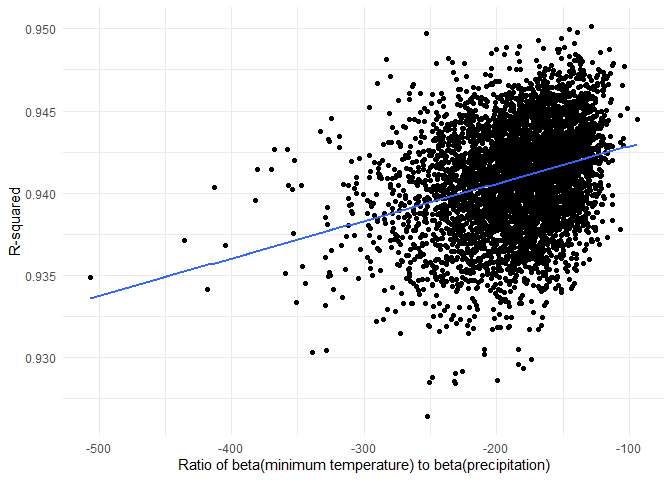
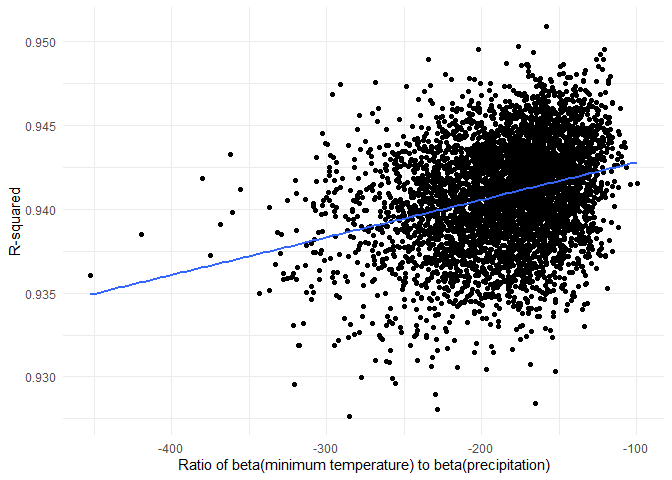
Problem 3; model 2 (length at birth & gestational age)

diff --git a/P8105_HW6_HL2710.md b/P8105_HW6_HL2710.md
@@ -55,12 +55,12 @@ head(weather_bs_betas)
     ## # A tibble: 6 × 5
     ##   strap_number `(Intercept)`  tmin     prcp beta_ratio
     ##          <int>         <dbl> <dbl>    <dbl>      <dbl>
-    ## 1            1          7.81  1.02 -0.00539      -189.
-    ## 2            2          7.84  1.01 -0.00512      -198.
-    ## 3            3          7.88  1.01 -0.00650      -155.
-    ## 4            4          7.73  1.02 -0.00495      -206.
-    ## 5            5          7.70  1.02 -0.00613      -166.
-    ## 6            6          7.77  1.01 -0.00778      -130.
+    ## 1            1          7.84  1.01 -0.00586      -172.
+    ## 2            2          7.78  1.02 -0.00504      -201.
+    ## 3            3          7.68  1.02 -0.00447      -229.
+    ## 4            4          7.81  1.02 -0.00531      -192.
+    ## 5            5          7.75  1.02 -0.00428      -238.
+    ## 6            6          7.63  1.02 -0.00589      -173.
 
 Collecting $\hat{r}^{2}$ data:
 
@@ -79,12 +79,12 @@ head(weather_bs_rsquared)
     ## # A tibble: 6 × 13
     ##   strap_number r.squared adj.r.squared sigma statistic p.value    df logLik
     ##          <int>     <dbl>         <dbl> <dbl>     <dbl>   <dbl> <dbl>  <dbl>
-    ## 1            1     0.941         0.941  2.75    17186.       0     2 -5286.
-    ## 2            2     0.940         0.940  2.76    17047.       0     2 -5286.
-    ## 3            3     0.936         0.936  2.82    15863.       0     2 -5329.
-    ## 4            4     0.939         0.939  2.77    16754.       0     2 -5275.
-    ## 5            5     0.943         0.943  2.67    17839.       0     2 -5209.
-    ## 6            6     0.947         0.947  2.59    19435.       0     2 -5154.
+    ## 1            1     0.941         0.941  2.70    17240.       0     2 -5216.
+    ## 2            2     0.938         0.938  2.79    16397.       0     2 -5311.
+    ## 3            3     0.944         0.944  2.67    18210.       0     2 -5227.
+    ## 4            4     0.940         0.940  2.76    16984.       0     2 -5287.
+    ## 5            5     0.942         0.942  2.72    17590.       0     2 -5248.
+    ## 6            6     0.945         0.945  2.61    18761.       0     2 -5166.
     ## # ℹ 5 more variables: AIC <dbl>, BIC <dbl>, deviance <dbl>, df.residual <int>,
     ## #   nobs <int>
 
@@ -99,12 +99,12 @@ head(weather_bs)
 ```
 
     ##   strap_number beta_ratio r.squared
-    ## 1            1  -188.5854 0.9405637
-    ## 2            2  -198.0913 0.9401606
-    ## 3            3  -155.3255 0.9360902
-    ## 4            4  -206.4855 0.9393626
-    ## 5            5  -166.2065 0.9427402
-    ## 6            6  -130.3887 0.9471244
+    ## 1            1  -172.2584 0.9410729
+    ## 2            2  -201.4690 0.9379110
+    ## 3            3  -228.9832 0.9436708
+    ## 4            4  -192.0109 0.9399799
+    ## 5            5  -238.3268 0.9420034
+    ## 6            6  -172.9483 0.9453065
 
 #### Plot of the ratio of betas vs r-squared
 
@@ -137,7 +137,7 @@ weather_bs_ci <- tibble(
 
 The 95% confidence interval for $\hat{r}^{2}$ is (0.93, 0.95). The 95%
 confidence interval for $\frac{\hat{\beta}_{1}}{\hat{\beta}_{2}}$ is
-(-276.9, -125.8).
+(-280, -125.8).
 
 ### Problem 3
 
@@ -233,7 +233,7 @@ birthweight_model1 %>%
 | Pre-Pregnancy BMI                  |    15.21 |           2.43 |      6.27 |       0 |
 | Cigarettes Smoked During Pregnancy |    -5.27 |           1.04 |     -5.06 |       0 |
 
-Testing model fit using residuals:
+Testing model fit:
 
 ``` r
 birthweight_model1_rplot <- birthweight %>% 
@@ -245,11 +245,7 @@ birthweight_model1_rplot <- birthweight %>%
   ylab("Residuals")
 
 birthweight_model1_rplot
-```
 
-![](P8105_HW6_HL2710_files/figure-gfm/unnamed-chunk-11-1.png)<!-- -->
-
-``` r
 birthweight_model1_rpplot <- birthweight %>% 
   modelr::add_residuals(birthweight_model1) %>% 
   modelr::add_predictions(birthweight_model1) %>% 
@@ -262,11 +258,66 @@ birthweight_model1_rpplot <- birthweight %>%
 birthweight_model1_rpplot
 ```
 
-![](P8105_HW6_HL2710_files/figure-gfm/unnamed-chunk-12-1.png)<!-- -->
+<img src="P8105_HW6_HL2710_files/figure-gfm/model1-1.png" width="50%" /><img src="P8105_HW6_HL2710_files/figure-gfm/model1-2.png" width="50%" />
 
-This model standing alone looks like a good fit for the data; when
-comparing the residuals against the birth weight variable, the residuals
-follow a very linear path with few outliers, and when compared against
-predicted values, the shape of the residuals plot is generally
+This model, when considered independently, looks like a good fit for the
+data; when comparing the residuals against the birth weight variable,
+the residuals follow a very linear path with few outliers. When compared
+against predicted values, the shape of the residuals plot is generally
 symmetrical and clustered at the center of the plot with no clear
 pattern.
+
+#### Test Model 1: birthweight compared against length at birth and gestational age (no interaction)
+
+Fitting the model:
+
+``` r
+birthweight_model2 <- lm(b_weight_grams ~ b_length_cents + b_gweeks, data = birthweight)
+
+birthweight_model2 %>% 
+  broom::tidy() %>% 
+  mutate(term = case_match(term,
+                           "(Intercept)" ~ "Intercept",
+                           "b_length_cents" ~ "Length at Birth (centimeters)",
+                           "b_gweeks" ~ "Gestational Weeks")) %>% 
+  knitr::kable(digits = 2, col.names = c("Term", "Estimate", "Standard Error", "Statistic", "P-Value"))
+```
+
+| Term                          | Estimate | Standard Error | Statistic | P-Value |
+|:------------------------------|---------:|---------------:|----------:|--------:|
+| Intercept                     | -4347.67 |          97.96 |    -44.38 |       0 |
+| Length at Birth (centimeters) |   128.56 |           1.99 |     64.60 |       0 |
+| Gestational Weeks             |    27.05 |           1.72 |     15.74 |       0 |
+
+Testing the model fit:
+
+``` r
+birthweight_model2_rplot <- birthweight %>% 
+  modelr::add_residuals(birthweight_model2) %>% 
+  ggplot(aes(x = b_weight_grams, y = resid)) +
+  geom_point(alpha = 0.5, shape = 1) +
+  theme_minimal() +
+  xlab("Birth Weight (grams)") +
+  ylab("Residuals")
+
+birthweight_model2_rplot
+
+birthweight_model2_rpplot <- birthweight %>% 
+  modelr::add_residuals(birthweight_model2) %>% 
+  modelr::add_predictions(birthweight_model2) %>% 
+  ggplot(aes(x = pred, y = resid)) +
+  geom_point(alpha = 0.5, shape = 1) +
+  theme_minimal() +
+  xlab("Predicted") +
+  ylab("Residuals")
+
+birthweight_model2_rpplot
+```
+
+<img src="P8105_HW6_HL2710_files/figure-gfm/model2-1.png" width="50%" /><img src="P8105_HW6_HL2710_files/figure-gfm/model2-2.png" width="50%" />
+
+This model, when considered independently, does not look like a good fit
+for the data; when comparing the residuals against the birth weight
+variable, the residuals do not follow a perfect linear path and see some
+spread. When compared against predicted values, the residuals cluster
+off-center, with a few notable outliers.
